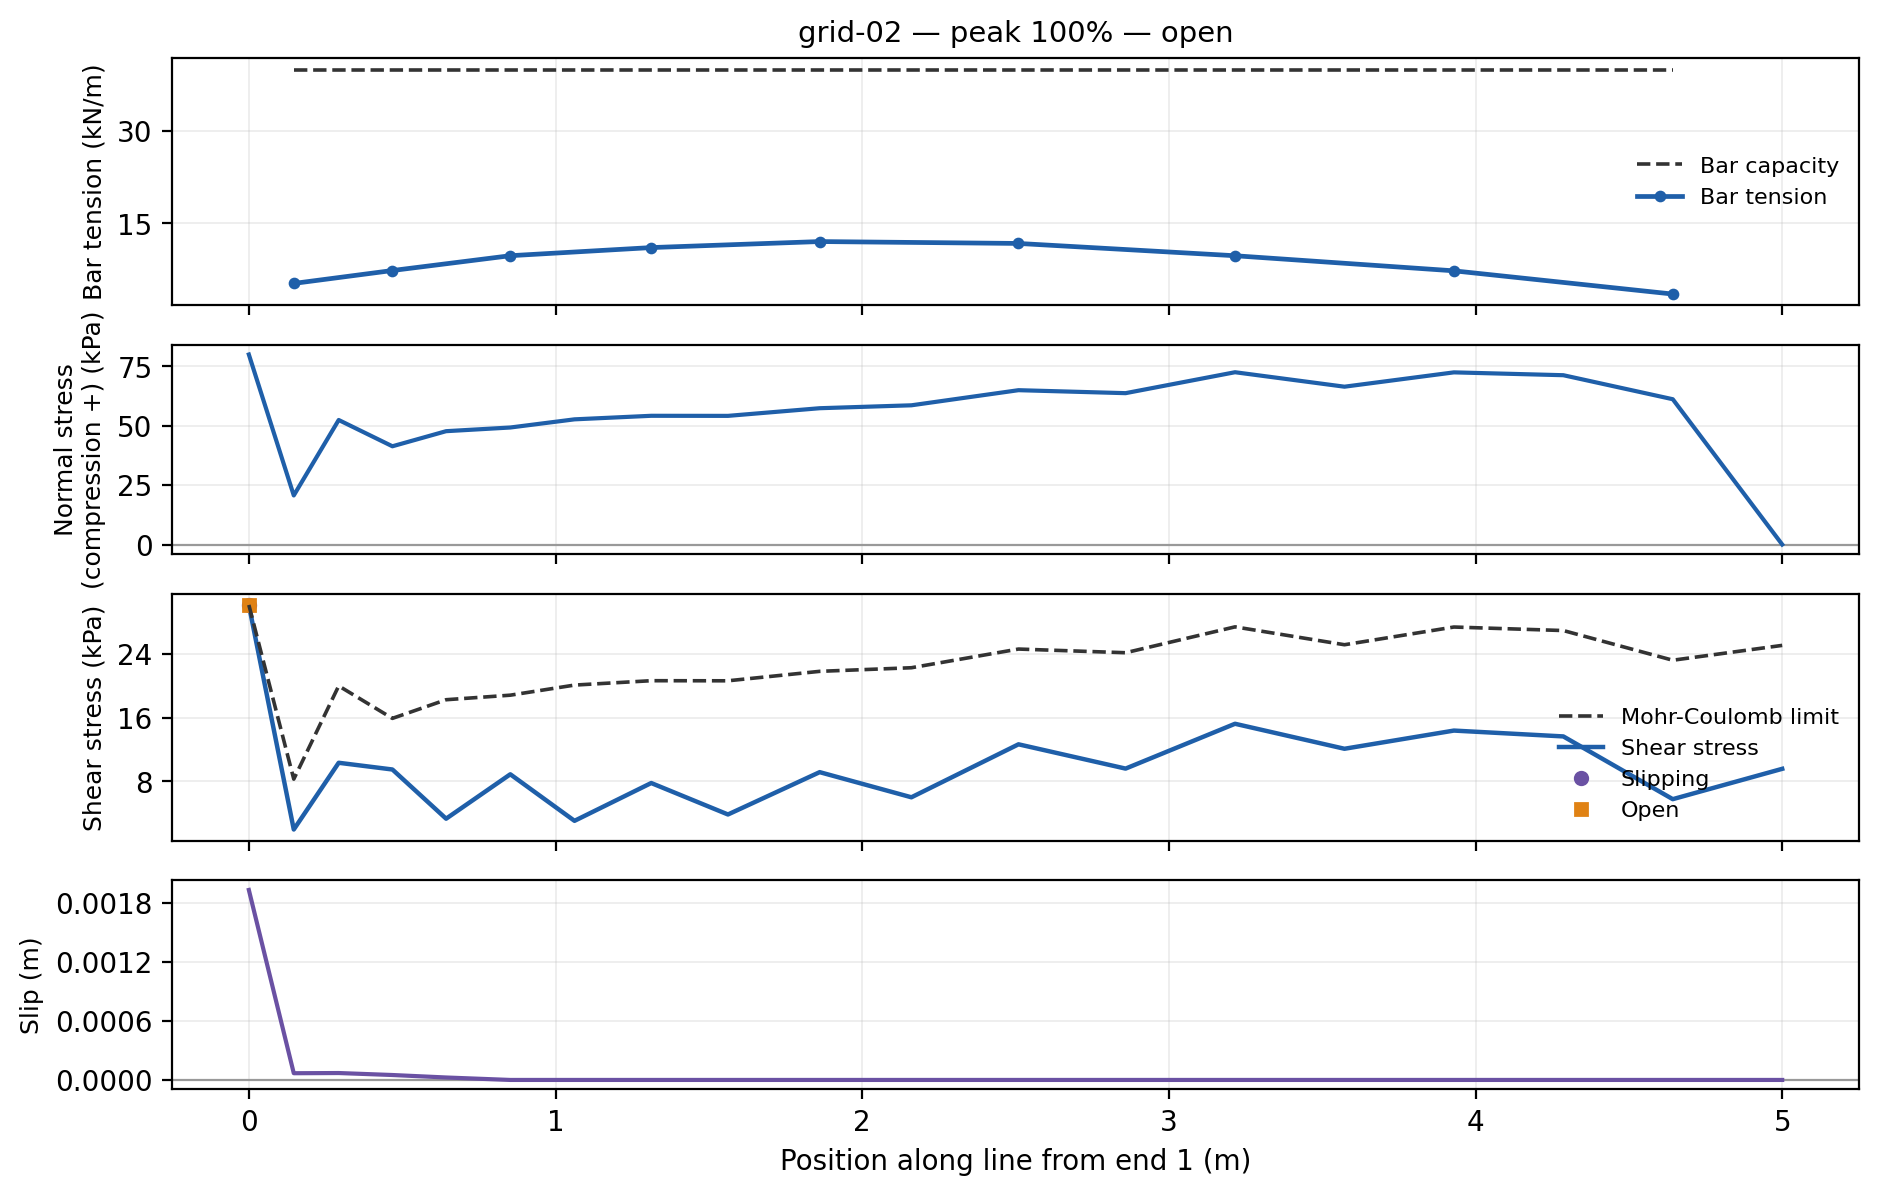
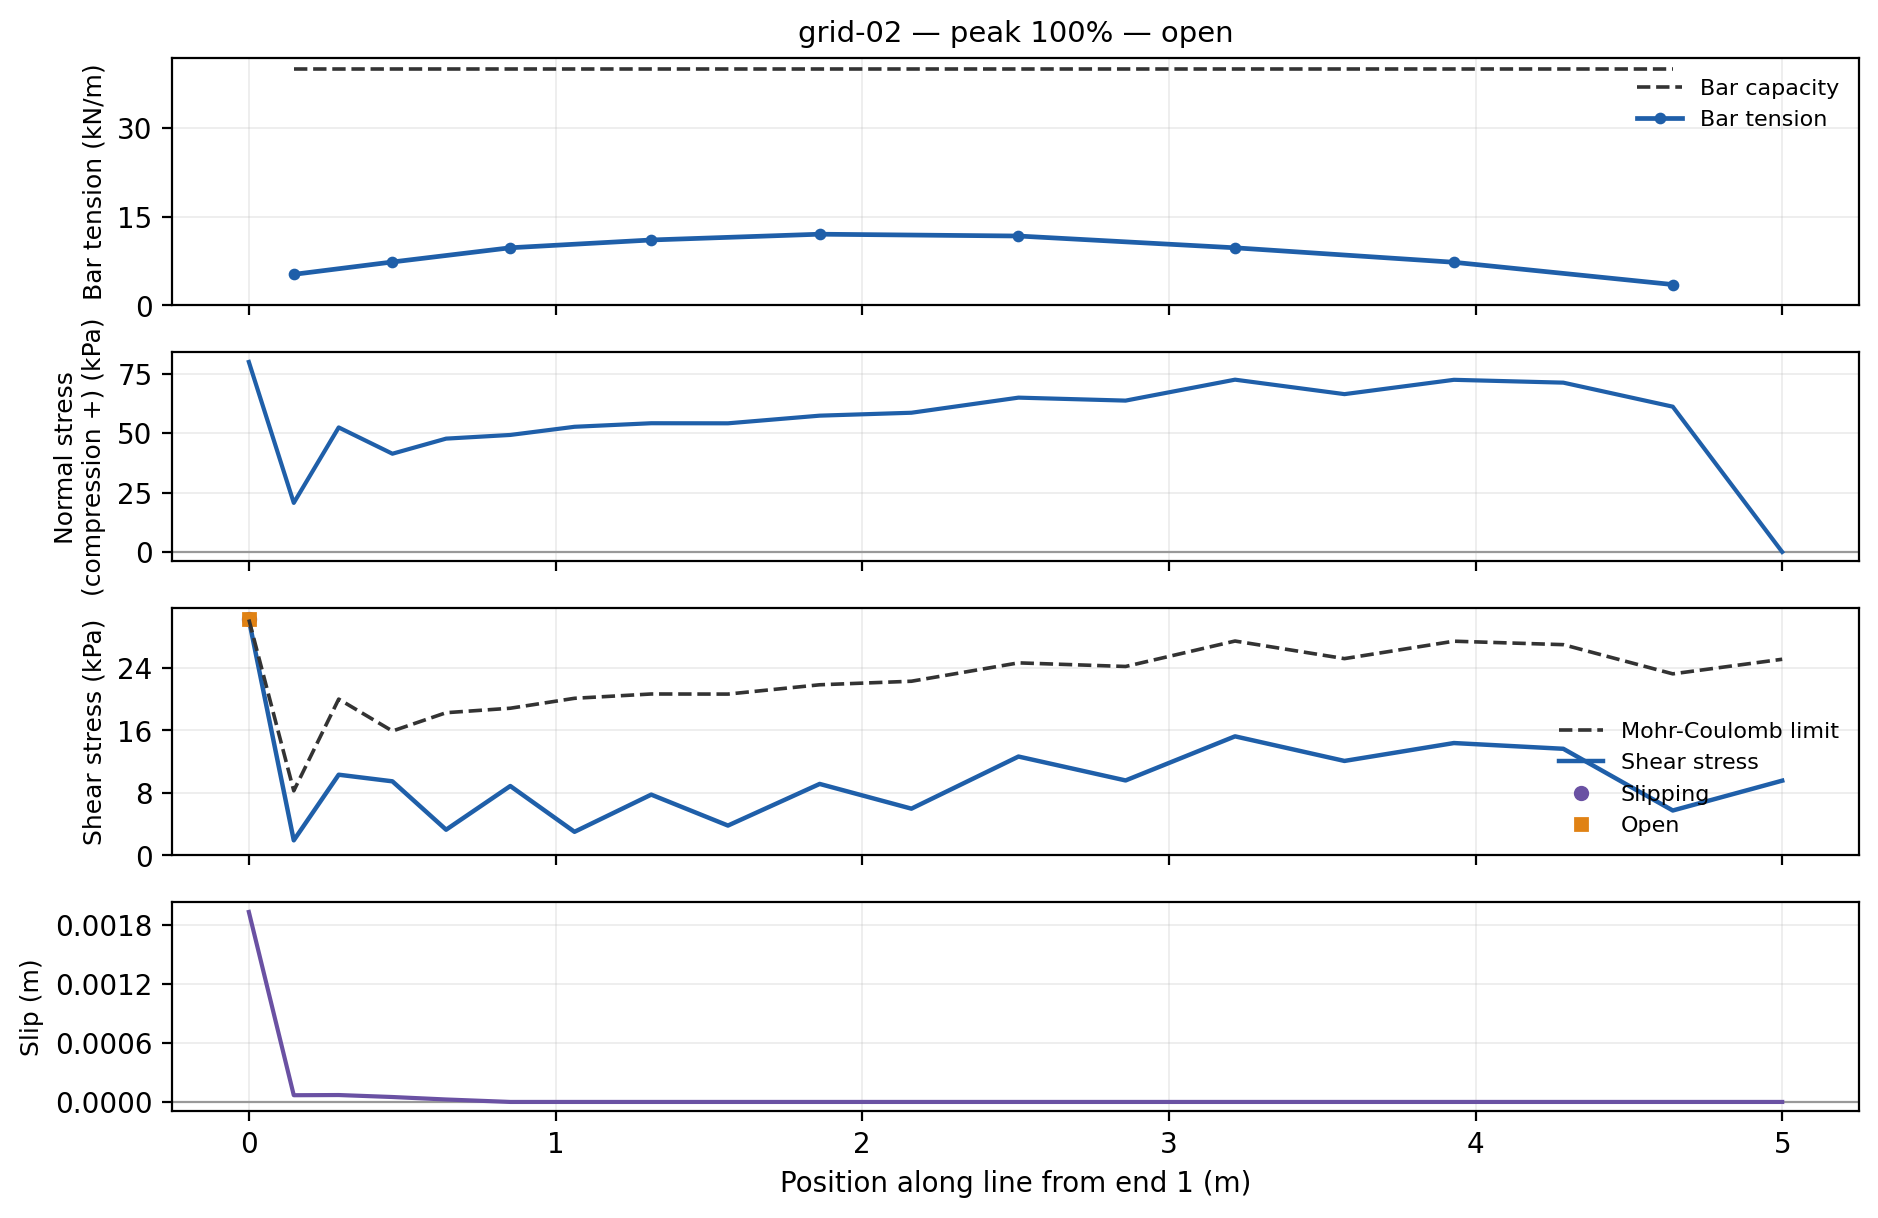
1D details: the shear-stress and bar-tension panels start at zero
Claude-Session: https://claude.ai/code/session_01XjjT2aBxw8gY7EFdpoUcpj

diff --git a/xslope/plot_fem_details.py b/xslope/plot_fem_details.py
@@ -575,6 +575,7 @@ def plot_joint_detail(profile, fig=None, fit_height=True):
         labels.append("Bar tension")
         ax_T.legend(handles, labels, loc="best", fontsize=8, frameon=False)
         ax_T.set_ylabel(_axis_label("Bar tension", u.get("force")), fontsize=9)
+        ax_T.set_ylim(bottom=0.0)
         ax_T.grid(True, **GRID)
 
     # --- normal traction ---------------------------------------------------
@@ -606,6 +607,9 @@ def plot_joint_detail(profile, fig=None, fit_height=True):
         l.append("Open")
     ax_s.legend(h, l, loc="best", fontsize=8, frameon=False)
     ax_s.set_ylabel(_axis_label("Shear stress", u.get("stress")), fontsize=9)
+    # From zero, like the normal-stress panel above it, so the limit keeps the
+    # normal stress's proportions instead of being stretched over a narrow range.
+    ax_s.set_ylim(bottom=0.0)
     ax_s.grid(True, **GRID)
 
     # --- slip --------------------------------------------------------------
